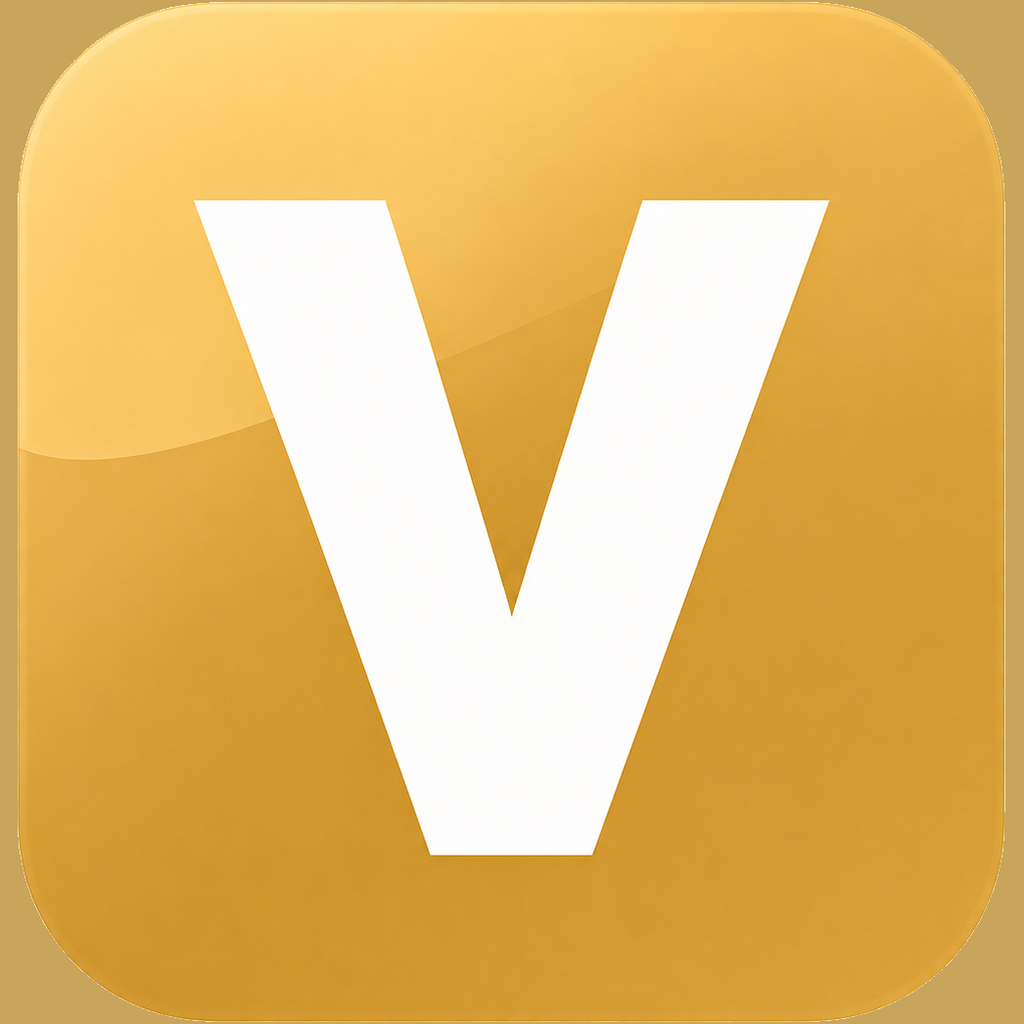
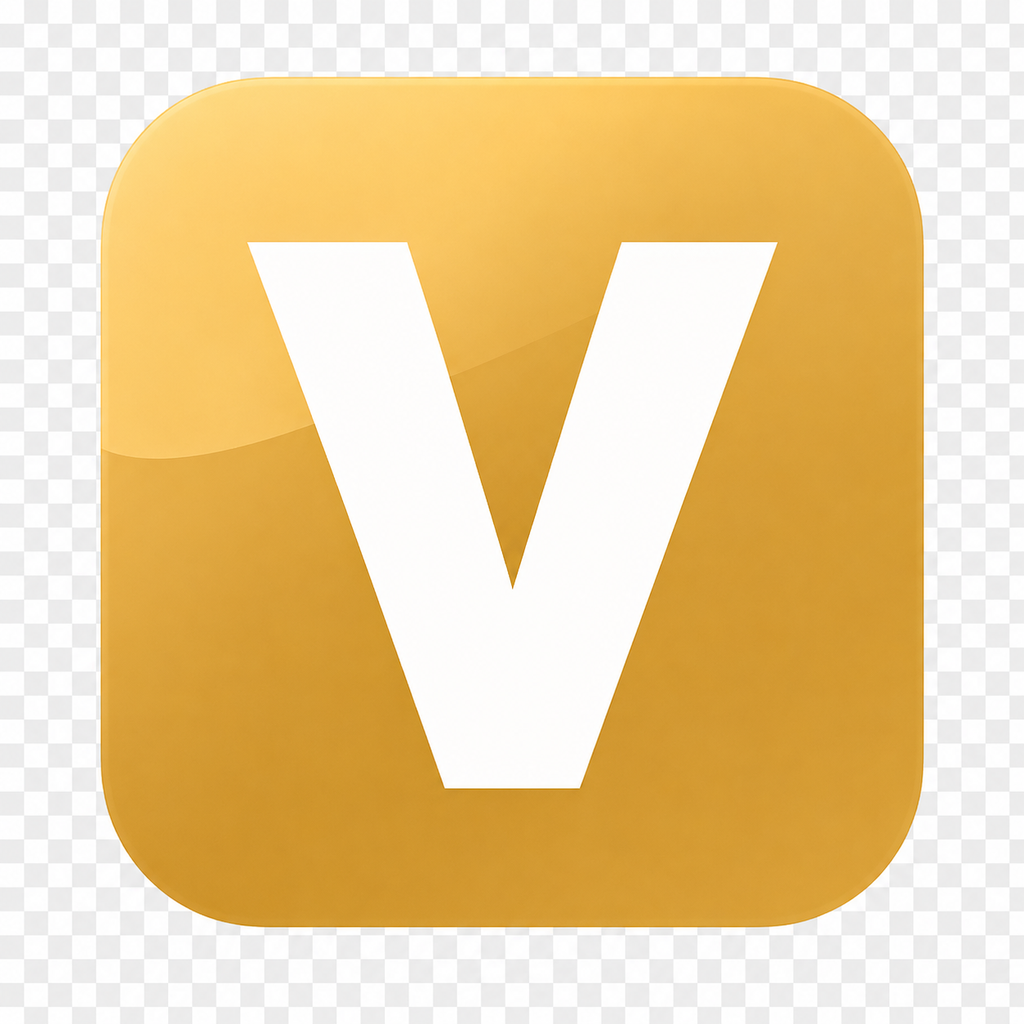
c1ed059a-edc6-45cd-9589-6a76ae39802f

diff --git a/src/app/(auth)/onboarding/page.tsx b/src/app/(auth)/onboarding/page.tsx
@@ -195,7 +195,7 @@ export default function OnboardingPage() {
     return (
       <div className="min-h-[100dvh] bg-[#000000] flex items-center justify-center">
         <div className="flex flex-col items-center gap-4">
-          <img src="/images/vitazen-logo.png" alt="VitaZen" className="w-12 h-12 animate-pulse rounded-[20%]" />
+          <img src="/images/v-gold-logo.png" alt="VitaZen" className="w-12 h-12 animate-pulse rounded-[20%]" />
           <p className="text-[#c8a55a] text-sm">Preparando tu experiencia...</p>
         </div>
       </div>
@@ -214,7 +214,7 @@ export default function OnboardingPage() {
     return (
       <div className="min-h-[100dvh] bg-[#000000] flex items-center justify-center">
         <div className="flex flex-col items-center gap-4">
-          <img src="/images/vitazen-logo.png" alt="VitaZen" className="w-12 h-12 animate-pulse rounded-[20%]" />
+          <img src="/images/v-gold-logo.png" alt="VitaZen" className="w-12 h-12 animate-pulse rounded-[20%]" />
           <p className="text-[#c8a55a] text-sm">Preparando tu experiencia...</p>
         </div>
       </div>

diff --git a/src/app/layout.tsx b/src/app/layout.tsx
@@ -24,12 +24,12 @@ export const metadata: Metadata = {
   description: 'Ecosistema premium de desarrollo personal basado en 5 imperios: Disciplina, Mente, Energía, Finanzas y Crecimiento.',
   icons: {
     icon: [
-      { url: '/images/vitazen-logo.png?v=3' },
-      { url: '/images/favicon-32x32.png?v=3', sizes: '32x32', type: 'image/png' },
-      { url: '/images/favicon-16x16.png?v=3', sizes: '16x16', type: 'image/png' },
+      { url: '/images/v-gold-logo.png?v=5' },
+      { url: '/images/favicon-32x32.png?v=5', sizes: '32x32', type: 'image/png' },
+      { url: '/images/favicon-16x16.png?v=5', sizes: '16x16', type: 'image/png' },
     ],
     apple: [
-      { url: '/images/apple-touch-icon.png?v=3', sizes: '180x180' },
+      { url: '/images/apple-touch-icon.png?v=5', sizes: '180x180' },
     ],
   },
   manifest: '/manifest.json',

diff --git a/src/components/layout/Sidebar.tsx b/src/components/layout/Sidebar.tsx
@@ -77,7 +77,7 @@ export function Sidebar({ open, onClose }: SidebarProps) {
           {/* Logo */}
           <div className="flex items-center justify-between p-6 border-b border-[#1a1a1a]">
             <Link href="/dashboard" className="flex items-center gap-3" onClick={onClose}>
-              <img src="/images/vitazen-logo.png" alt="VitaZen" className="w-10 h-10 rounded-[20%]" />
+              <img src="/images/v-gold-logo.png" alt="VitaZen" className="w-10 h-10 rounded-[20%]" />
               <span className="text-[#c8a55a] text-xl font-bold tracking-widest">VITAZEN</span>
             </Link>
             <button onClick={onClose} className="lg:hidden text-white hover:text-[#c8a55a] close-btn">

diff --git a/src/app/(auth)/login/page.tsx b/src/app/(auth)/login/page.tsx
@@ -83,7 +83,7 @@ export default function LoginPage() {
       <div className="w-full max-w-md auth-page-enter">
         {/* Logo */}
         <div className="text-center mb-8">
-          <img src="/images/vitazen-logo.png" alt="VitaZen" className="w-16 h-16 mx-auto mb-4 rounded-[20%]" />
+          <img src="/images/v-gold-logo.png" alt="VitaZen" className="w-16 h-16 mx-auto mb-4 rounded-[20%]" />
           <h1 className="text-[#c8a55a] text-3xl font-bold tracking-widest">VITAZEN</h1>
           <p className="text-[#c8a55a]/80 mt-3 text-base tracking-wide font-light italic">Muévete, desconecta y vive sin límites</p>
         </div>

diff --git a/src/app/(auth)/register/page.tsx b/src/app/(auth)/register/page.tsx
@@ -98,7 +98,7 @@ export default function RegisterPage() {
       <div className="w-full max-w-md auth-page-enter">
         {/* Logo */}
         <div className="text-center mb-8">
-          <img src="/images/vitazen-logo.png" alt="VitaZen" className="w-16 h-16 mx-auto mb-4 rounded-[20%]" />
+          <img src="/images/v-gold-logo.png" alt="VitaZen" className="w-16 h-16 mx-auto mb-4 rounded-[20%]" />
           <h1 className="text-[#c8a55a] text-3xl font-bold tracking-widest">VITAZEN</h1>
           <p className="text-[#999] mt-2 text-sm">Comienza tu transformación personal</p>
         </div>

diff --git a/src/app/(auth)/verify-email/verify-email-client.tsx b/src/app/(auth)/verify-email/verify-email-client.tsx
@@ -141,7 +141,7 @@ export default function VerifyEmailClient() {
       <div className="w-full max-w-md text-center auth-page-enter">
         {/* Logo */}
         <div className="mb-10">
-          <img src="/images/vitazen-logo.png" alt="VitaZen" className="w-14 h-14 mx-auto mb-4 opacity-90 rounded-[20%]" />
+          <img src="/images/v-gold-logo.png" alt="VitaZen" className="w-14 h-14 mx-auto mb-4 opacity-90 rounded-[20%]" />
           <p className="text-[#c8a55a] text-xs tracking-[8px] font-light">VITAZEN</p>
         </div>
 

diff --git a/src/app/(auth)/forgot-password/page.tsx b/src/app/(auth)/forgot-password/page.tsx
@@ -42,7 +42,7 @@ export default function ForgotPasswordPage() {
       <div className="w-full max-w-md auth-page-enter">
         {/* Logo */}
         <div className="text-center mb-8">
-          <img src="/images/vitazen-logo.png" alt="VitaZen" className="w-16 h-16 mx-auto mb-4 rounded-[20%]" />
+          <img src="/images/v-gold-logo.png" alt="VitaZen" className="w-16 h-16 mx-auto mb-4 rounded-[20%]" />
           <h1 className="text-[#c8a55a] text-3xl font-bold tracking-widest">VITAZEN</h1>
         </div>
 

diff --git a/src/app/(auth)/reset-password/ResetPasswordClient.tsx b/src/app/(auth)/reset-password/ResetPasswordClient.tsx
@@ -79,7 +79,7 @@ export default function ResetPasswordClient() {
       <div className="w-full max-w-md">
         {/* Logo */}
         <div className="text-center mb-8">
-          <img src="/images/vitazen-logo.png" alt="VitaZen" className="w-16 h-16 mx-auto mb-4 rounded-[20%]" />
+          <img src="/images/v-gold-logo.png" alt="VitaZen" className="w-16 h-16 mx-auto mb-4 rounded-[20%]" />
           <h1 className="text-[#c8a55a] text-3xl font-bold tracking-widest">VITAZEN</h1>
         </div>
 

diff --git a/src/lib/emails/templates.ts b/src/lib/emails/templates.ts
@@ -11,7 +11,7 @@ const APP_URL = process.env.NEXT_PUBLIC_APP_URL || 'https://vitazen.cc';
 
 // ─── V Logo: public URL for maximum email client compatibility ───
 // cid: attachments fail in Gmail iOS/Android; public HTTPS URL works everywhere
-const V_LOGO_SRC = 'https://vitazen.cc/images/icon-192x192.png';
+const V_LOGO_SRC = 'https://vitazen.cc/images/v-gold-logo.png';
 
 // ─── Premium dark wrapper: black bg, V logo, gold brand ───
 

diff --git a/src/lib/emails/weekly-recap.ts b/src/lib/emails/weekly-recap.ts
@@ -11,7 +11,7 @@ const APP_URL = process.env.NEXT_PUBLIC_APP_URL || 'https://vitazen.cc';
 
 // ─── V Logo: public URL for maximum email client compatibility ───
 // cid: attachments fail in Gmail iOS/Android; public HTTPS URL works everywhere
-const V_LOGO_SRC = 'https://vitazen.cc/images/icon-192x192.png';
+const V_LOGO_SRC = 'https://vitazen.cc/images/v-gold-logo.png';
 
 // ─── Types ───
 

diff --git a/src/app/page.tsx b/src/app/page.tsx
@@ -35,7 +35,7 @@ export default function Home() {
 
   return (
     <div className="min-h-screen bg-[#000000] flex items-center justify-center">
-      <img src="/images/vitazen-logo.png" alt="VitaZen" className="w-12 h-12 animate-pulse rounded-[20%]" />
+      <img src="/images/v-gold-logo.png" alt="VitaZen" className="w-12 h-12 animate-pulse rounded-[20%]" />
     </div>
   );
 }

diff --git a/public/firebase-messaging-sw.js b/public/firebase-messaging-sw.js
@@ -38,7 +38,7 @@ messaging.onBackgroundMessage((payload) => {
 
   const notificationOptions = {
     body,
-    icon: '/images/vitazen-logo.png',
+    icon: '/images/v-gold-logo.png',
     badge: '/images/icon-192x192.png',
     tag: `vitazen-${type}`, // Dedup: same tag replaces previous
     renotify: false,
